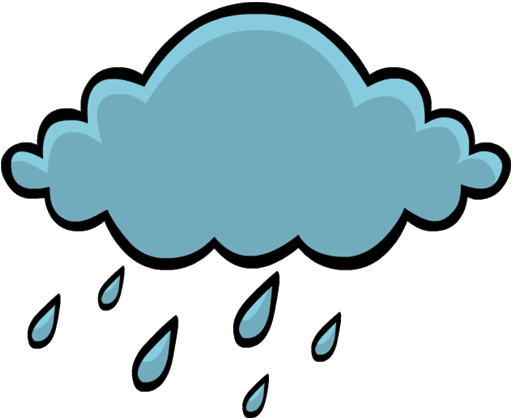
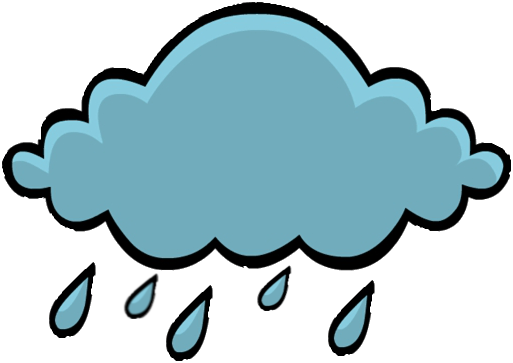
Clouds now change speed and randomize fully after going past screen

Changed region(s): [[0.0, 0.0, 0.9981, 1.0]]

diff --git a/src/game/Cloud.java b/src/game/Cloud.java
@@ -20,6 +20,7 @@ public class Cloud extends DynamicGameObject{
 	//private static final int TOPMOST_Y = 0; //the highest x position on the screen
 	private int width, height;
 	
+	static final int LEFT_MOST = -200; //the left-most point the clouds get to until new ones are spawned
 	
 	//Should be the screen width:x, screen height:y
 	//(Utility.randRangeInt(CLOUD_VX_MIN,CLOUD_VX_MAX): gives random negative x velocity
@@ -99,15 +100,21 @@ public class Cloud extends DynamicGameObject{
 		this.resetCloud(this.start_x, 0, this.start_y);
 	}
 	
+	public void changeSpeed() {
+		int new_vx = Utility.randRangeInt(CLOUD_VX_MIN,CLOUD_VX_MAX);
+		this.setVelocity(new Velocity(new_vx,CLOUD_VY));
+	}
+	
 	
 	//Places the cloud at the starting x position, and at a random y position
 	public void resetCloud(int x, int min_y, int max_y) {
 		int random_y = Utility.randRangeInt(min_y, max_y);
 		
 		//If the cloud goes offscreen 
-		if(this.getPosition().getX()<-50) {
+		if(this.getPosition().getX()<LEFT_MOST) {
 			this.setPosition(new Position(x, random_y));
 			this.reSize(); //resizes the Cloud
+			this.changeSpeed();
 		}
 	}
 	

diff --git a/src/game/RedKnotGameState.java b/src/game/RedKnotGameState.java
@@ -50,7 +50,7 @@ public class RedKnotGameState extends GameState {
 			int screen_width = this.controller.getScreen().getX();
 			int screen_height = this.controller.getScreen().getY();
 //			this.clouds.add(new Cloud(screen_width,screen_height));
-			this.clouds.add(Cloud.spawnCloud(500, 500, 0));
+			this.clouds.add(Cloud.spawnCloud(this.controller.getScreen().getPLAY_SCREEN_WIDTH(), Cloud.LEFT_MOST, this.controller.getScreen().getPLAY_SCREEN_HEIGHT()));
 		}
 	}
 	
